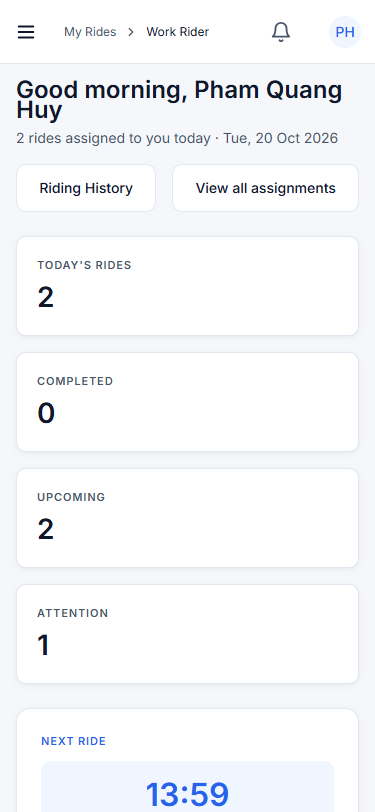
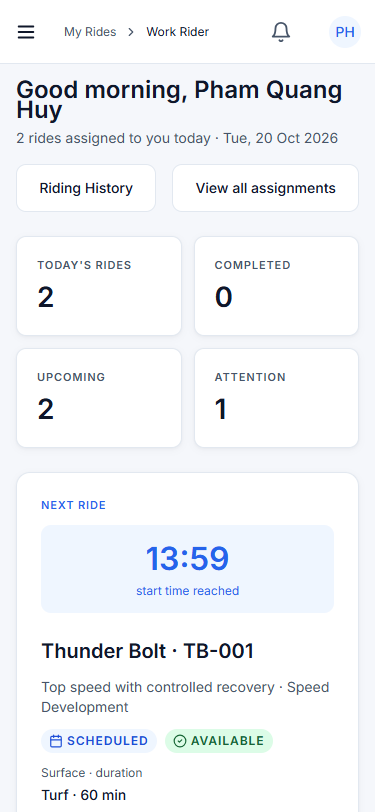
docs(fe): v2 finalization coverage, owner hand-off, API readiness and evidence
Screen coverage by flow and owner (fixture-verified, no live Backend claim),
compatibility findings for Hoang/Duc screens in the v2 shell, the role-landing
decision, WAITING_BACKEND endpoints against BE dev 5867f07, Playwright a11y
results and refreshed before/after screenshots.

diff --git a/docs/FE-V2-FINALIZATION.md b/docs/FE-V2-FINALIZATION.md
@@ -1,0 +1,96 @@
+# FE v2 finalization — Leader scope
+
+Branch `feat/long-fe-v2-finalization`, built on FE PR #20 (`feat/long-fe-v2-foundation` @ `69d8972`), which sits directly on `main` @ `bfa8147`. PR #20 and `main` history and authors are preserved. Preview branch `preview/role-test-main` @ `6a1a333` is unchanged.
+
+Design source: `Racehorse_UI_v2_Equestrian_Command.zip` (`Racehorse_Design_System_v2.md`, `Racehorse_UX_Playbook_v2.1.md`, `racehorse-v2.tokens.css`), already encoded in `src/design-system/styles/tokens.css` by PR #20. No new tokens, theme or parallel component set were created. Approved Figma `tm7dpgAQbHReZ7tlQeQJlc` remains the per-screen layout reference; the v2 documents are marked PROPOSED, so this branch is a review candidate, not a Production rollout.
+
+## What changed
+
+| Area | Change | Owner |
+|---|---|---|
+| Shell | Sidebar + Header always render in the v2 scope (navy 240 / header 64). Page content opts in with `AppShell designSystem="v2"`. Content gutter 24/32/16. Skip link. No `min-width: 1280px`. | Long (shared) |
+| Responsive navigation | Below 1024px the sidebar is a drawer opened from a Header menu button (`aria-controls`/`aria-expanded`); Escape and the scrim close it and return focus; route change closes it. Header search/name collapse on narrow web. | Long (shared) |
+| Error boundary | `RouteErrorPage` on every top-level route: recoverable chunk-load and render failures, no stack/asset/request text. | Long (shared) |
+| Guard | `UnsavedChangesGuard allowSameRoute` for screens that keep query views mounted. `focusFirstInvalid` utility. | Long (shared) |
+| v2 scope fix | `:where([data-design-system='v2'])` so the scope background never overrides component surfaces (the production bundle showed the sidebar on the page colour). | Long (shared) |
+| CORE-013 | Register Horse, Pedigree & Ownership, Pending Activation in v2; dirty guards released only after server confirmation; first-invalid focus; layout stacks below 1024/768. | Long |
+| CORE-027 | Groom Today, Pre-session Check in v2; dirty guard; focus first unanswered check; 44px targets; segmented control under its label on narrow web. | Long |
+| CORE-029 | Work Rider screens in v2; Report Issue / Add sample not dismissible while typed; feedback guard; bottom action bar at 375; tables in labelled scroll regions; 2-column metrics; no overflow (was 615px wide at 375). | Long |
+| CORE-033 | Session Evaluation and Performance in v2; evaluation draft survives Performance History; first-invalid focus; performance client rejects non-list bodies (crash fixed). | Long |
+| CORE-044 | Assigned Programs, Calendar, Exercise Library in v2; toolbar wraps below 1280 (was 212px overflow at 1024); Exercise builder not dismissible while typed. | Long |
+
+Hoang's and Duc's screens keep their v1 content inside the v2 shell. Shared horse CSS (`horses.module.css`, also used by Duc's Horse List/Profile) received layout-only responsive rules; no fields, actions or data changed.
+
+## Screen coverage (screens/dialogs/states, not routes)
+
+Status: DONE = UI and behaviour present with automated tests, verified with fixtures only. PARTIAL = present with a concrete gap. MISSING = no business UI (guarded unavailable route at most). BLOCKED_CONTRACT = field/operation not in the approved API. No item is live-Backend verified.
+
+### Flow 1 — Horse
+
+| Screen | Figma | Route | Owner | Status | v2 |
+|---|---|---|---|---|---|
+| Register Horse | 282:2377 | `/horses/new` | Long 013 | DONE | Yes |
+| Pedigree & Ownership | 283:2487 | `/horses/:id/edit` | Long 013 | DONE (pedigree note BLOCKED_CONTRACT) | Yes |
+| Assign Stable Box | 284:2588 | modal | Long 013 | DONE | Yes |
+| Pending Activation | 285:2786 | `/horses/pending-activation` | Long 013 | DONE | Yes |
+| Horse List / Profile / History / Readiness | 281:2158, 200:8678, 200:8809 | `/horses`, `/horses/:id` | Duc 017 | DONE (v1) — narrow-web touch targets PARTIAL | Shell only |
+| Vet baseline | 273:1805 | `/horses/:id/baseline` | Hoang 015 | DONE (v1) | Shell only |
+
+### Flow 2 — Training
+
+| Screen | Figma | Route | Owner | Status | v2 |
+|---|---|---|---|---|---|
+| Groom Today / Pre-session Check / incident entry | 244:556, 248:667, 253:980 | `/groom/today`, `/training/my-sessions/:id/pre-check` | Long 027 | DONE | Yes |
+| Work Rider Dashboard, Assignments, Detail, Start, Active (in progress/paused/interrupted), Report Issue, Add sample, Feedback, History | 416:9660 … 432:17289 | `/rider/*` | Long 029 | DONE (rep progression BLOCKED_CONTRACT) | Yes |
+| Session Evaluation (Result, Planned vs Actual, Evaluation) | 161:7413, 164:7560, 165:7664 | `/training/sessions/:id/evaluation` | Long 033 | DONE | Yes |
+| Performance History | 166:7791 | `/training/performance` | Long 033 | DONE (top speed/recovery BLOCKED_CONTRACT) | Yes |
+| Assigned Programs / Calendar / Exercise Library + drawer + builder | 95:400, 97:286, 105:286, 106:301, 106:387 | `/training/*` | Long 044 | DONE (goal/progress BLOCKED_CONTRACT) | Yes |
+| HT Program List | 77:317 | `/training/programs` | Hoang 022 | MISSING | — |
+| Create Program wizard | 84:286 … 91:299 | `/training/programs/new` | Hoang 022 | PARTIAL; overflows below 1280 | Shell only |
+| Template Library / detail / create-edit-version / Program detail-progress-history / adjustment | 120:5086, 124:5277 …, 78:288 …, 80:778 … | `/training/templates*`, `/training/programs/:id` | Hoang 041 | MISSING | — |
+| Trainer Dashboard / Create Session / Session Detail | 94:286, 101:286 …, 147:5976 | `/dashboard`, `/training/schedule/session/new`, `/training/session/:id` | Hoang 025 | DONE (v1); dashboard overflows at 375 | Shell only |
+| Live Monitoring — Resume, Alert Detail | 151:6627, 155:7089, 156:7383 | `/training/monitoring` | Hoang 031 | PARTIAL | Shell only |
+
+### Flow 3 — Medical
+
+| Screen | Figma | Route | Owner | Status | v2 |
+|---|---|---|---|---|---|
+| Herd Health, Cases, Case Detail, Treatment Plan, HT Medical Summary | 267:1223, 270:1588, 274:9405 | `/medical/*` | Duc 036/046 | DONE (v1) | Shell only |
+| Injury 3D | 210:9145 | case Injury tab | Duc 036 | PARTIAL (2D fallback) | Shell only |
+| Care Tasks / Incidents | 252:843, 256:1015, 257:1112 | `/care/tasks`, `/incidents` | Duc 046 | DONE (v1); Incidents overflows ≤1024 | Shell only |
+| Restrictions | 210:9332, 275:9512 | `/medical/restrictions` | Hoang 020 | DONE (v1) | Shell only |
+| Threshold override | 272:1791 | dialog | Hoang 020 | MISSING | — |
+
+### Shared
+
+| Screen | Figma | Route | Owner | Status |
+|---|---|---|---|---|
+| AppShell, navigation drawer, route error boundary, unavailable state | 74:110, 74:367 | all | Long | DONE (v2) |
+| Landing, Login | 400:6, 400:7 | `/`, `/login` | Long / Hoang 008 | DONE |
+| Owner portal | 299:4305 … | `/owner/horses` | Duc 056 | DONE (v1) |
+| CM dashboard / Audit log | 308:4605, 308:5271 | `/dashboard`, `/admin/audit-log` | 052 | DONE (v1) |
+| Explicit `/403` / public not-found | 293:3710 | — | Hoang 008 | PARTIAL |
+| Notifications drawer + center | 321:5356, 322:5410 | `/notifications` | Hoang 054 | MISSING |
+| Staff & Users, Roles & Permissions, full My Account, Forgot/Reset | 288:3192 …, 290:3537, 292:3637, 291:3630 | `/admin/*`, `/account` | CORE-050 — unassigned FE owner | MISSING / PARTIAL |
+
+Leader scope (Long): 25 screens/dialogs across CORE-013/027/029/033/044 plus the shared shell — all DONE with fixtures, in v2. Remaining MISSING/PARTIAL items belong to Hoang, Duc or the unassigned CORE-050 and were not taken over.
+
+## Owner hand-off (compatibility found in the v2 shell sweep)
+
+- Hoang: Create Program wizard overflows by 165–566px below 1280; Trainer Dashboard overflows at 375 and has 20px links; Live Monitoring 20px link; v2 content adoption; the missing screens listed above.
+- Duc: Incidents overflows by 58px at 1024/768 and 459px at 375; Care Tasks filter buttons 34px; Horse List/Medical text links 20px on narrow web; Injury 3D; v2 content adoption.
+- CM dashboard (052): 20–40px links on narrow web.
+- Decision (Long): `/dashboard` for Work Rider, Groom and Horse Owner still shows the generic workspace instead of the existing landings (`/rider`, `/groom/today`, `/owner/horses`). Redirecting changes Hoang's CORE-008 auth tests and Duc's cross-role flow test, so it was not applied here.
+
+## API readiness
+
+Live API calls go through the canonical `requestApi`/`AuthProvider`/JWT client. No fixtures or sample adapters are in the production bundle (`check-production-bundle.mjs`). BE `dev` @ `5867f07` implements only auth (login/me/logout), Horse create/list/detail and stable-box list. Every other endpoint used by the Leader screens (pedigree, ownership, stable assignment, activation, training programs/sessions, groom sessions, pre-session check, rider assignments/history/actions, evaluation, performance, exercises) is contract-only: **WAITING_BACKEND**. No live REST, STOMP or SQL test was run in this branch; CORS for any Preview origin needs Leader approval on the Backend.
+
+## Verification (this branch)
+
+- `npm ci`, ESLint, `tsc -b --noEmit`, full Vitest, `node --test scripts/design-system-policy.check.mjs`, `node --test scripts/staging-policy.check.mjs`, `vite build` + `check-production-bundle.mjs`: see the PR for the exact head results.
+- Fixture browser sweep (Chromium iframes, production bundle, local fixture API only): Leader routes × 1440/1280/1024/768/375 — no crash, no main/document overflow, no narrow-web target below 44px outside labelled table regions, all in v2 scope.
+- Playwright (`docs/evidence/v2-finalization/a11y-report.json`): skip link, focus outline, navy sidebar colours, keyboard drawer open/Escape/focus return, no overflow at 375, reduced motion, 200% zoom equivalent — 9/9 PASS.
+- Before/after screenshots (`docs/evidence/v2-finalization/`): `before-*` from `main` @ `bfa8147`, `after-*` from this branch, at 1440×900 and 375×812, fixture API.
+
+Not established: WCAG conformance of every screen, screen-reader testing, Figma v2 approval, live Backend/SQL integration, Production deployment.
